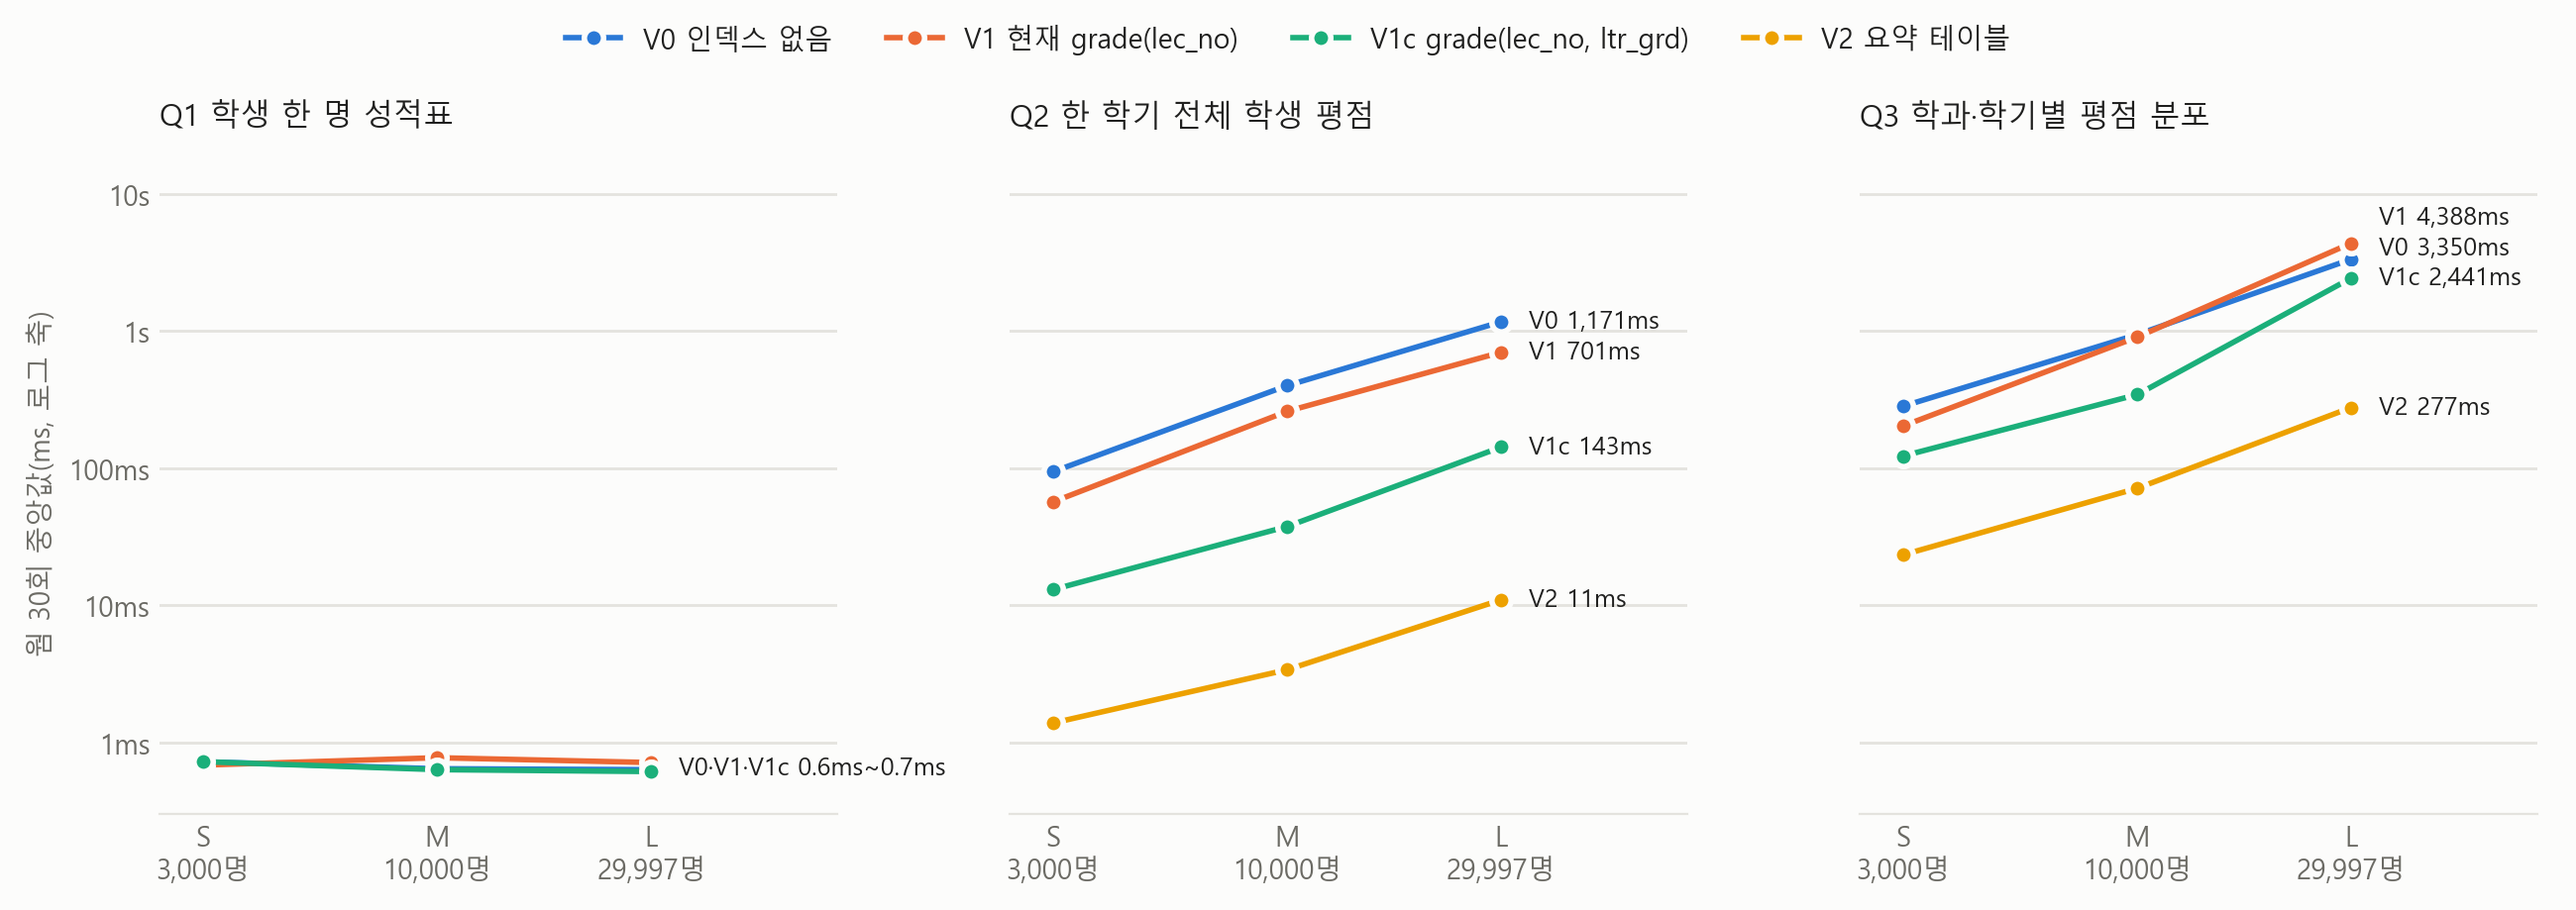
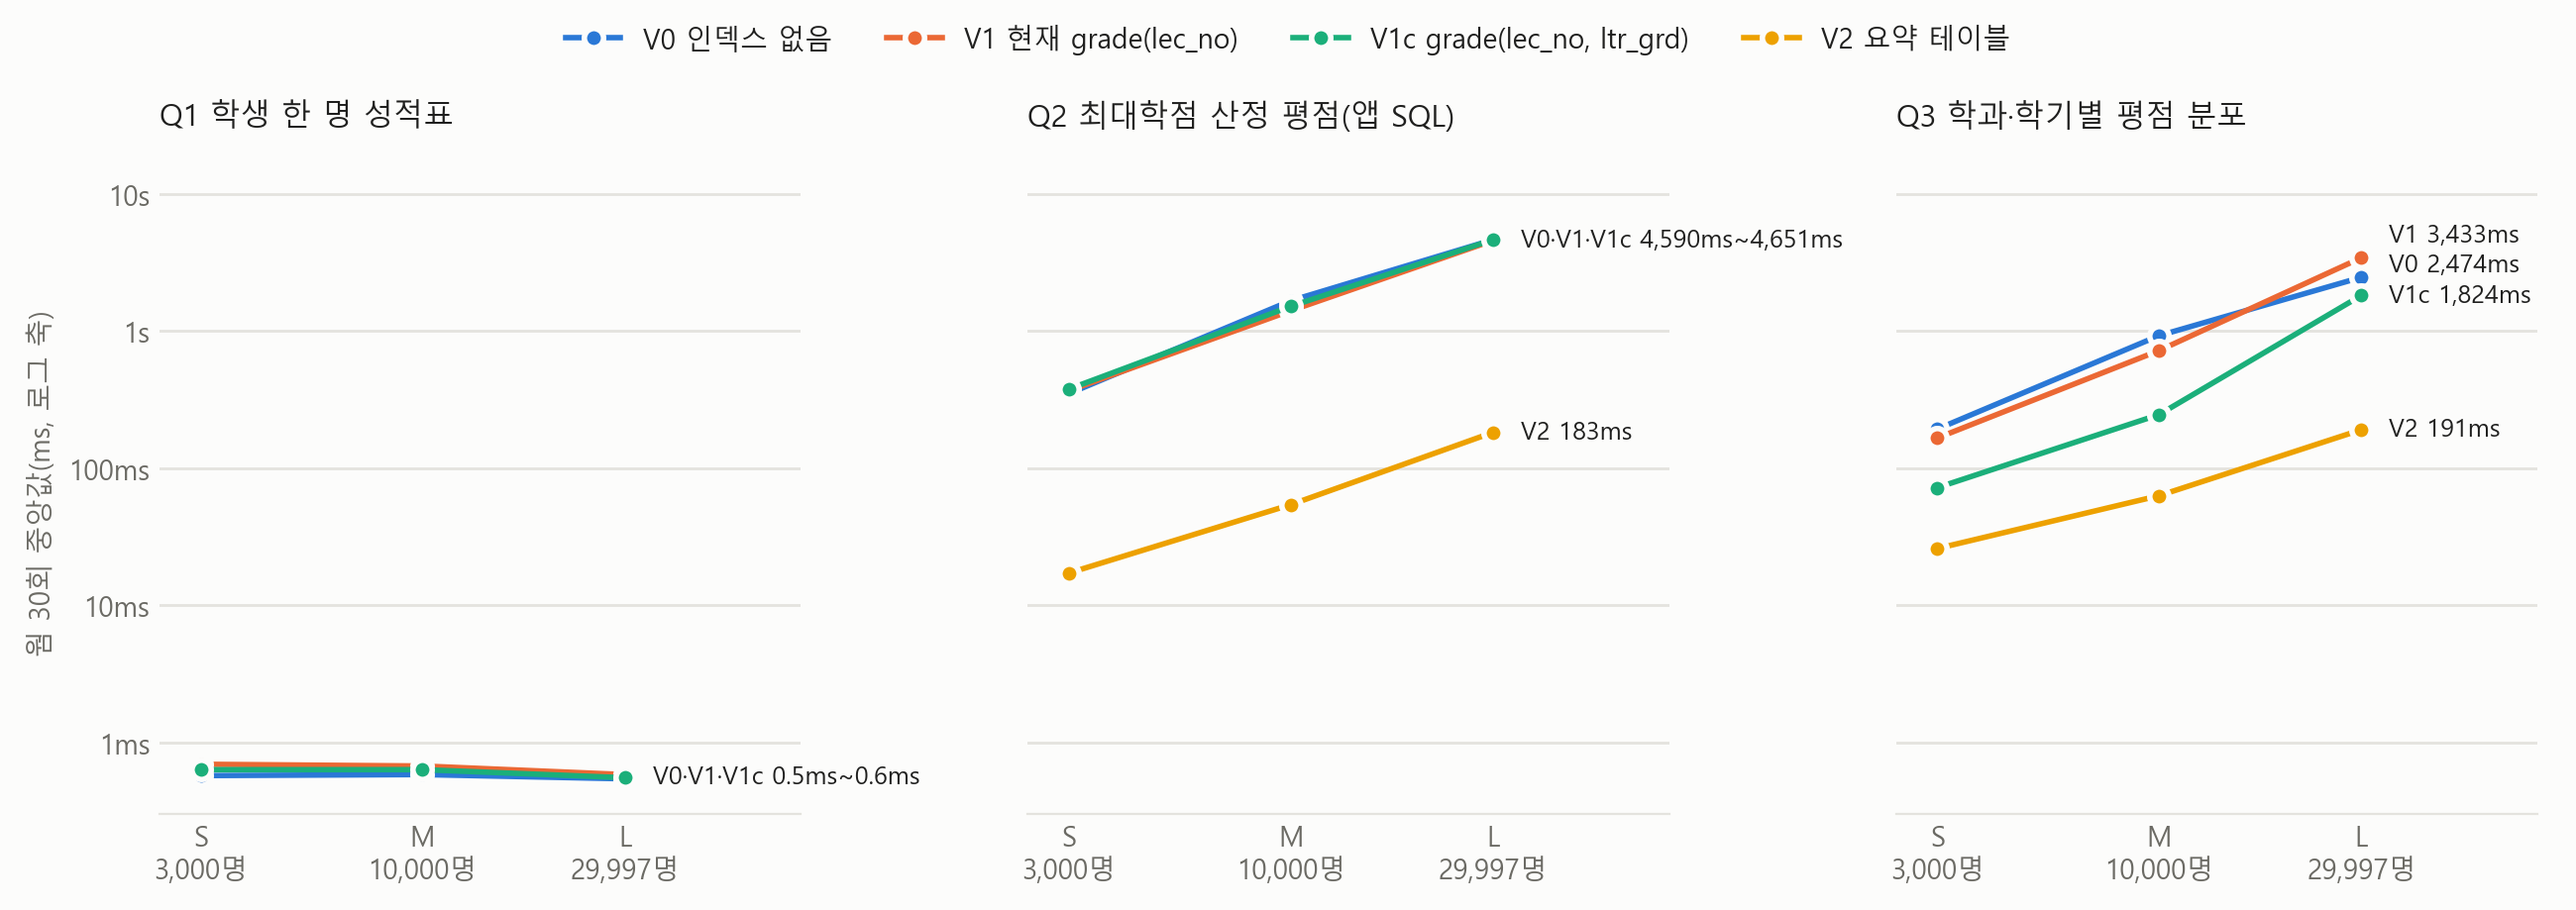
docs: 앱 SQL 로 다시 잰 성능 실험 결과로 보고서를 고침
최대학점 산정 평점(앱 SQL)은 grade 인덱스를 바꿔도 줄지 않아 인덱스는 그대로 두도록 권장을 바꿈. 학생 3만 명 기준 Q2 4.6초, 산정 한 문장 5.8초

diff --git a/tools/experiment/plot_results.py b/tools/experiment/plot_results.py
@@ -24,7 +24,7 @@ VARIANTS = {
     "V1c": ("V1c grade(lec_no, ltr_grd)", "#1baf7a"),
     "V2": ("V2 요약 테이블", "#eda100"),
 }
-QUERIES = {"Q1": "Q1 학생 한 명 성적표", "Q2": "Q2 한 학기 전체 학생 평점", "Q3": "Q3 학과·학기별 평점 분포"}
+QUERIES = {"Q1": "Q1 학생 한 명 성적표", "Q2": "Q2 최대학점 산정 평점(앱 SQL)", "Q3": "Q3 학과·학기별 평점 분포"}
 INK, MUTED, GRID, SURFACE = "#1f1f1e", "#6b6a64", "#e4e3de", "#fcfcfb"
 
 

diff --git a/docs/grade-experiment.md b/docs/grade-experiment.md
@@ -1,33 +1,34 @@
 # 성적 조회 성능 실험
 
-성적 데이터가 늘어날 때 어느 조회가 느려지고, 인덱스와 요약 테이블이 각각 얼마나 줄이는지 쟀다. 도구는 `tools/experiment/`, 데이터는 `tools/bulk/` 가 만든다.
+성적 데이터가 늘어날 때 어느 조회가 느려지고, 인덱스와 요약 테이블이 각각 얼마나 줄이는지 쟀다. 도구는 `tools/experiment/`, 데이터는 `tools/bulk/` 가 만든다. Q1·Q2·V3 는 앱 SQL 을 그대로 옮겨 쟀다.
 
 ## 결론
 
 - **학생 한 명 성적표(Q1, GRD-03)는 손댈 필요가 없다.** 학생 3만 명에서도 1ms 아래다. `enrollment`·`grade` 기본 키가 학번으로 시작해서 그 학생 행만 읽는다.
-- **학기 단위 집계(Q2)는 지금 인덱스 `grade(lec_no)` 로 1.7배밖에 안 줄어든다.** 강의로 성적 행을 찾은 뒤 등급(`ltr_grd`)을 읽으려고 행마다 기본 키로 다시 찾아가기 때문이다. 인덱스를 `grade(lec_no, ltr_grd)` 로 바꾸면 다시 찾아갈 일이 없어져 지금보다 4.9배(701 → 143ms) 빠르다. 인덱스는 3MB(18%) 커진다.
-- **전체를 훑는 집계(Q3)는 `grade(lec_no)` 인덱스로 줄지 않는다.** 시간의 3분의 1에서 절반이 학생·학기별 GROUP BY 임시 테이블이다. 요약 테이블(V2)이 12배 줄인다.
-- **요약 테이블은 가장 빠르지만 앱에는 넣지 않는다.** "평점은 저장하지 않고 조회할 때 계산한다"는 업무 규칙과 충돌하고, 성적이 확정될 때마다 다시 만들어야 한다(D17).
-- **최대학점 산정을 SQL 한 문장으로 한 지금 설계가 맞다.** 학생별로 SELECT·INSERT 를 반복하면 16~26배 느리다.
+- **최대학점 산정이 읽는 평점(Q2)은 학생 3만 명에서 4.6초이고, `grade` 인덱스를 바꿔도 줄지 않는다.** 앱 쿼리는 학생 → 신청 → 성적 순서로 기본 키를 따라 등급을 읽는다. `grade(lec_no)` 를 지우든 `(lec_no, ltr_grd)` 로 바꾸든 L 에서는 1% 안으로 같고, S·M 에서는 빠른 순서가 규모마다 바뀐다. 그래서 인덱스는 지금 그대로 둔다.
+- **Q2 의 시간은 이수 내역을 두 번 읽는 데 쓴다.** 학생별 마지막 정규학기를 정하려고 77만 행을 읽어 정렬하고(약 2.8초), 그 결과로 다시 140만 행을 훑는다(약 2.7초). 요약 테이블(V2)로 읽으면 183ms 로 25배 줄지만, "평점은 저장하지 않고 조회할 때 계산한다"는 업무 규칙과 충돌해 앱에는 넣지 않는다(D17).
+- **최대학점 산정을 SQL 한 문장으로 한 지금 설계가 맞다.** 학생별로 SELECT·INSERT 를 반복하면 5~6배 느리다. 학생 3만 명 전체 산정이 한 문장으로 5.8초다. 학기에 한 번 관리자가 돌리는 일이라 쓸 만하다.
+- **전체를 훑는 통계 집계(Q3, 앱에 없음)는 커버링 인덱스로 1.9~2.9배, 요약 테이블로 13배 준다.** 이런 화면을 만든다면 그때 다시 본다.
 
 ![규모별 응답 시간](grade-experiment/response_time.png)
 
 ## 방법
 
-| 쿼리 | 내용 | 앱에서 쓰는 곳 |
+| 쿼리 | 내용 | 출처 |
 | --- | --- | --- |
-| Q1 | 학생 한 명(20240001)의 전체 성적표, 재수강 표시 포함 | GRD-03 성적 조회와 같은 SQL |
-| Q2 | 2026-2 전체 학생의 학기 평점 | 최대학점 산정의 입력 |
-| Q3 | 학과·학기별 학기 평점 분포(0.5 단위) | 없음. 통계 화면을 가정한 전체 집계 |
+| Q1 | 학생 한 명(20240001)의 전체 성적표, 재수강 표시 포함 | `GradeReportRepository`(#28) 그대로 |
+| Q2 | 재학생마다 마지막으로 다닌 정규학기(2학년 1학기는 1학년 두 학기)의 등급제 학점 합과 학점×평점 합. 2027-1 산정 기준 | `MaxCreditRepository.LAST_REGULAR_GPA`(#32) 그대로 |
+| Q3 | 학과·학기별 학기 평점 분포(0.5 단위) | 없음. 통계 화면을 가정한 전체 집계(설계 3-3) |
 
 | 비교군 | 내용 |
 | --- | --- |
 | V0 | `grade(lec_no)` 인덱스를 지운 상태 |
 | V1 | 현재 스키마(`ix_grade_lec` = `grade(lec_no)`) |
 | V1c | `grade(lec_no, ltr_grd)` 로 바꾼 상태(커버링 인덱스) |
-| V2 | V1 + 학생·학기별 학점 합·학점×평점 합 요약 테이블. Q1 의 누적 평점은 재수강 이전 성적을 빼야 해서 요약 테이블로 낼 수 없어 Q2·Q3 만 잰다 |
-| V3 | 최대학점 산정: 학생별 SELECT·INSERT 반복 vs `INSERT ... SELECT` 한 문장. 두 결과가 같은지 먼저 확인한다 |
+| V2 | V1 + 학생·학기별 등급제 학점 합·학점×평점 합 요약 테이블. Q1 의 누적 평점은 재수강 이전 성적을 빼야 해서 요약 테이블로 낼 수 없어 Q2·Q3 만 잰다 |
+| V3 | 최대학점 산정(`insertRegular`): 학생별 SELECT·INSERT 반복 vs `INSERT ... SELECT` 한 문장. 둘 다 그 학기 값을 지운 뒤 재학생 전원을 넣는다 |
 
+- 비교군마다 쿼리 결과가 처음 잰 비교군과 같은지 먼저 확인하고, 같을 때만 쟀다. V3 도 두 방식의 결과가 같은지 확인했다.
 - 쿼리 × 비교군마다 MySQL 을 재시작해 버퍼 풀을 비우고 첫 실행(콜드) 1회, 이어서 30회(웜)를 쟀다. 웜은 중앙값과 p95 를 적는다.
 - 시간은 `performance_schema` 의 문장 실행 시간이다. 네트워크와 클라이언트 시간은 들어가지 않는다. 여러 문장을 묶어 재는 V3·쓰기 비용·요약 테이블 생성은 세션 안 `NOW(6)` 차이로 쟀다.
 - 실행 계획은 `EXPLAIN ANALYZE` 로 남겼다(`build/experiment/<규모>/explain/`).
@@ -35,8 +36,8 @@
 | 규모 | 학생 | 강의 | 수강신청 | 성적 |
 | --- | ---: | ---: | ---: | ---: |
 | S | 3,000 | 약 2,800 | 약 7.6만 | 약 7.6만 |
-| M | 10,000 | 9,378 | 약 26만 | 257,745 |
-| L | 29,997 | 28,110 | 774,866 | 771,992 |
+| M | 10,000 | 9,378 | 약 26만 | 약 26만 |
+| L | 29,997 | 28,110 | 약 77만 | 약 77만 |
 
 환경: MySQL 8.4.13, Docker Desktop(CPU 8개, 메모리 7.5GB), 버퍼 풀 512MB, `innodb_flush_method=O_DIRECT`(OS 캐시를 거치지 않아 재시작 직후가 진짜 콜드), 버퍼 풀 덤프·복원 끔. L 규모 `grade` 전체(기본 키 92MB)가 버퍼 풀에 들어가므로 웜 측정은 메모리 안 처리 시간이다.
 
@@ -48,47 +49,47 @@
 
 | 비교군 | S 중앙값 | M 중앙값 | L 중앙값 | L p95 | L 콜드 |
 | --- | ---: | ---: | ---: | ---: | ---: |
-| V0 | 0.7 | 0.6 | 0.6 | 0.8 | 105 |
-| V1 | 0.7 | 0.8 | 0.7 | 2.1 | 32 |
-| V1c | 0.7 | 0.6 | 0.6 | 1.1 | 29 |
+| V0 | 0.6 | 0.6 | 0.5 | 0.9 | 24 |
+| V1 | 0.7 | 0.7 | 0.6 | 1.1 | 24 |
+| V1c | 0.6 | 0.6 | 0.6 | 1.0 | 25 |
 
-규모가 10배 늘어도 그대로다. 읽는 행이 그 학생의 신청 수(225행)뿐이다. 콜드 값의 차이는 재시작 직후 사전 캐시가 비어 있는 영향이고 인덱스와는 관계없다.
+규모가 10배 늘어도 그대로다. 읽는 행이 그 학생의 신청 수(225행)뿐이다.
 
-**Q2 한 학기 전체 학생 평점**
+**Q2 최대학점 산정이 읽는 평점(앱 SQL)**
 
 | 비교군 | S 중앙값 | M 중앙값 | L 중앙값 | L p95 | L 콜드 | L 읽은 행 |
 | --- | ---: | ---: | ---: | ---: | ---: | ---: |
-| V0 | 94 | 401 | 1,171 | 1,310 | 2,677 | 1,722,724 |
-| V1 | 57 | 260 | 701 | 792 | 2,317 | 155,846 |
-| V1c | 13 | 38 | 143 | 209 | 298 | 155,846 |
-| V2 | 1.4 | 3.4 | 11 | 15 | 41 | 26,951 |
+| V0 | 350 | 1,666 | 4,651 | 6,013 | 9,033 | 3,351,641 |
+| V1 | 368 | 1,409 | 4,590 | 5,121 | 8,028 | 3,351,641 |
+| V1c | 378 | 1,517 | 4,648 | 5,111 | 8,373 | 3,351,641 |
+| V2 | 17 | 54 | 183 | 208 | 280 | 233,806 |
 
-실행 계획(L 규모)으로 본 이유:
+실행 계획(L 규모, V1)으로 본 이유:
 
-- V0 은 `grade` 77만 행을 기본 키 순서로 전부 읽고, 행마다 강의를 찾아 2026-2 인지 거른다.
-- V1 은 2026-2 강의 4,338개에서 출발해 `ix_grade_lec` 으로 성적 행을 찾는다. 읽는 행은 10분의 1로 줄지만, 보조 인덱스에는 `lec_no` 와 기본 키만 있어서 `ltr_grd` 를 읽으려고 14만 9천 번 기본 키를 다시 찾아간다. 이 단계가 491ms 중 대부분이다.
-- V1c 는 같은 경로에서 `Covering index lookup` 이 되어 이 단계가 67ms 로 준다. 콜드에서는 차이가 더 커서 2,317 → 298ms 다. 디스크에서 기본 키 페이지를 읽지 않아도 되기 때문이다.
+- `reg` CTE(정규학기 이수 내역)를 두 번 쓴다. 학생별 마지막 학기와 학기 수를 내는 `terms` 를 만들 때 한 번(학기 → 강의 → 성적 → 신청, 77만 행을 읽고 학번으로 정렬, 약 2.8초), 본 조인에서 학생마다 신청 내역을 다시 읽을 때 한 번(140만 행, 약 2.7초)이다.
+- 첫 번째 읽기는 `ix_grade_lec` 을 커버링으로 쓰지만(`lec_no` 와 기본 키 `std_no` 만 필요) 성적 행 하나당 2.5µs 로 이미 싸다. 등급은 두 번째 읽기에서 `grade` 기본 키로 읽는다. 그래서 인덱스를 지우거나 등급을 넣어도 전체 시간이 바뀌지 않는다.
+- V2 는 학생·학기 11만 8천 행짜리 요약 테이블을 한 번 훑고 끝난다.
 
-**Q3 학과·학기별 평점 분포**
+**Q3 학과·학기별 평점 분포(앱에 없음)**
 
 | 비교군 | S 중앙값 | M 중앙값 | L 중앙값 | L p95 | L 콜드 |
 | --- | ---: | ---: | ---: | ---: | ---: |
-| V0 | 283 | 945 | 3,350 | 4,802 | 5,483 |
-| V1 | 203 | 906 | 4,388 | 5,130 | 6,254 |
-| V1c | 123 | 345 | 2,441 | 2,809 | 2,781 |
-| V2 | 23 | 71 | 277 | 323 | 411 |
+| V0 | 193 | 927 | 2,474 | 2,853 | 3,876 |
+| V1 | 166 | 722 | 3,433 | 3,725 | 4,942 |
+| V1c | 72 | 246 | 1,824 | 1,987 | 2,484 |
+| V2 | 26 | 63 | 191 | 230 | 344 |
 
-L 에서 V1 이 V0 보다 느리게 나왔지만 `EXPLAIN ANALYZE` 한 번으로는 4,221 대 4,189ms 로 같다. 조인은 V1 이 빠르지만(2.8 → 1.9초) 그 뒤 학생·학기 11만 8천 묶음을 만드는 GROUP BY 임시 테이블이 V0 1.4초, V1 2.3초로 그만큼 늘어 합이 같아진다. 웜 중앙값의 차이는 측정 변동으로 본다(V0 p95 가 중앙값보다 43% 크다).
+학기 → 강의 → 성적 순서로 읽는 쿼리라 등급까지 담은 커버링 인덱스(V1c)가 V1 보다 1.9~2.9배 빠르다. V0 과 V1 은 S·M 에서는 V1 이, L 에서는 V0 이 빨라 일관된 차이가 없다. L 에서는 학생·학기 11만 8천 묶음을 만드는 GROUP BY 임시 테이블이 시간의 큰 몫이라 인덱스 효과가 묻힌다.
 
-**V3 최대학점 산정(2026-2 평점으로 다음 학기 최대학점)**
+**V3 최대학점 산정(2027-1, 재학생 전원)**
 
-| 규모 | 학생 | 한 문장 | 학생별 반복(문장 수) | 차이 |
-| --- | ---: | ---: | ---: | ---: |
-| S | 2,690 | 75 | 1,948(5,380) | 26배 |
-| M | 9,014 | 272 | 5,793(18,028) | 21배 |
-| L | 26,951 | 803 | 13,211(53,902) | 16배 |
+| 규모 | 재학생 | 21학점 | 한 문장 | 학생별 반복(문장 수) | 차이 |
+| --- | ---: | ---: | ---: | ---: | ---: |
+| S | 2,691 | 336 | 569 | 3,102(5,382) | 5.5배 |
+| M | 9,014 | 1,063 | 1,614 | 9,775(18,028) | 6.1배 |
+| L | 26,951 | 3,153 | 5,812 | 29,449(53,902) | 5.1배 |
 
-반복은 MySQL 컨테이너 안에서 소켓으로 문장을 보낸 시간이라, 앱에서 네트워크를 거치면 차이가 더 커진다.
+반복은 MySQL 컨테이너 안에서 소켓으로 문장을 보낸 시간이라, 앱에서 네트워크를 거치면 차이가 더 커진다. 한 문장 시간의 대부분은 Q2 다.
 
 **비용**
 
@@ -97,23 +98,25 @@ L 에서 V1 이 V0 보다 느리게 나왔지만 `EXPLAIN ANALYZE` 한 번으로
 | `grade` 기본 키 크기(MB) | 9.5 | 29.6 | 91.7 |
 | `grade(lec_no)` 크기(MB) | 2.5 | 5.5 | 16.6 |
 | `grade(lec_no, ltr_grd)` 크기(MB) | 2.5 | 6.5 | 19.6 |
-| 성적 전체 다시 넣기, 보조 인덱스 없음 | 957 | 1,606 | 4,485 |
-| 성적 전체 다시 넣기, `grade(lec_no)` | 1,261 | 2,748 | 8,787 |
-| 성적 전체 다시 넣기, `grade(lec_no, ltr_grd)` | 1,121 | 2,030 | 6,986 |
-| 요약 테이블 전체 생성 | 589 | 1,175 | 6,142 |
-| 요약 테이블 한 학기만 다시 생성 | 107 | 260 | 1,304 |
+| 성적 전체 다시 넣기, 보조 인덱스 없음 | 480 | 1,301 | 3,727 |
+| 성적 전체 다시 넣기, `grade(lec_no)` | 619 | 2,058 | 5,783 |
+| 성적 전체 다시 넣기, `grade(lec_no, ltr_grd)` | 601 | 1,982 | 6,082 |
+| 요약 테이블 전체 생성 | 417 | 1,212 | 4,940 |
+| 요약 테이블 한 학기만 다시 생성 | 110 | 260 | 965 |
 
-보조 인덱스 하나가 대량 쓰기를 1.2~2배 늦춘다. 두 인덱스 사이의 차이는 3회 측정의 변동보다 작아 구분하지 않는다. 앱의 성적 입력은 한 번에 한 강의(수십 행)라 체감할 차이는 아니다.
+보조 인덱스 하나가 대량 쓰기를 1.3~1.6배 늦춘다. 두 인덱스 사이의 차이는 3회 측정의 변동보다 작아 구분하지 않는다. 앱의 성적 입력은 한 번에 한 강의(수십 행)라 체감할 차이는 아니다.
 
 ## 권장
 
-1. `ix_grade_lec` 을 `grade(lec_no, ltr_grd)` 로 바꾸는 것을 제안한다. `lec_no` 로 시작하므로 지금 이 인덱스를 쓰는 강의별 성적 조회는 그대로 쓰고, 학기 단위 집계는 5배 빨라진다. 단점은 인덱스 3MB 와, 등급을 고칠 때마다 이 인덱스도 고쳐진다는 점이다. 스키마 변경이라 세 사람 확인을 거친다.
-2. 최대학점 산정은 한 학기에 한 번 도는 일이라 지금(V1)도 L 규모에서 1초 안이다. 1번은 급하지 않고, 통계 화면처럼 학기 단위 집계를 자주 부르는 기능이 생길 때 하면 된다.
-3. 요약 테이블은 실험 결과로만 남긴다(D17 (a)). 앱에 넣으려면 업무 규칙과 갱신 시점(성적 확정 때 누가 다시 만드는가)을 먼저 정해야 한다.
+1. `grade` 인덱스는 지금(`grade(lec_no)`) 그대로 둔다. 앱 쿼리(Q1·Q2)에서 바꿔서 얻는 것이 없다.
+2. 최대학점 산정은 지금처럼 한 문장으로 둔다. 학생 3만 명에서 6초 안이고, 학기에 한 번 도는 일이다.
+3. 산정을 더 줄여야 한다면, 인덱스보다 이수 내역을 한 번만 읽도록 `LAST_REGULAR_GPA` 를 고치는 쪽을 먼저 본다(학생·학기별로 먼저 묶은 뒤 학생별 마지막 학기를 고르는 식). 이번 실험에서는 재지 않았다.
+4. 요약 테이블은 실험 결과로만 남긴다(D17 (a)). 앱에 넣으려면 업무 규칙과 갱신 시점(성적 확정 때 누가 다시 만드는가)을 먼저 정해야 한다.
 
 ## 설계(모듈 A 상세 설계 3-3)와 달라진 점
 
-- 설계는 "`grade` 에 강의번호로 시작하는 인덱스가 없다"를 전제로 V1 을 "인덱스 추가"로 잡았다. 그런데 첫 스키마에 이미 `ix_grade_lec` 이 들어가 있어, V1 을 현재 상태로 두고 인덱스를 지운 V0 을 기준선으로 삼았다. 그러다 보니 V1 의 한계가 보여 V1c 를 더했다.
+- 설계는 "`grade` 에 강의번호로 시작하는 인덱스가 없다"를 전제로 V1 을 "인덱스 추가"로 잡았다. 그런데 첫 스키마에 이미 `ix_grade_lec` 이 들어가 있어, V1 을 현재 상태로 두고 인덱스를 지운 V0 을 기준선으로 삼았다. 등급까지 담은 V1c 를 더했다.
+- 설계의 Q2 는 "한 학기 전체 학생의 학기 평점"이었는데, 최대학점 산정이 실제로 읽는 것은 학생마다 다른 "마지막 정규학기(2학년 1학기는 두 학기)" 평점이라 앱 SQL 그대로 쟀다.
 - 학번을 시드와 같은 8자리(D30)로 맞추면서 입학 연도당 9,999명이 상한이 되어, 규모를 S 3천·M 1만·L 3만 명으로 다시 정했다. 설계의 "M 규모 이상" 기준은 L(성적 77만 행)로 채운다.
 - 측정 도구는 D18 (a)대로 Python 으로 SQL 을 직접 실행했다. 외부 패키지 없이 `docker exec` 로 `mysql` 클라이언트를 부르고 시간은 `performance_schema` 에서 읽는다.
 
@@ -128,4 +131,4 @@ python -X utf8 tools/experiment/grade_experiment.py --scale L
 python -X utf8 tools/experiment/plot_results.py        # matplotlib 필요
 ```
 
-규모 하나에 S 3분, M 5분, L 14분 걸렸다(적재 검사 포함).
+규모 하나에 S 3분, M 7분, L 20분 걸렸다(적재 검사 포함).
